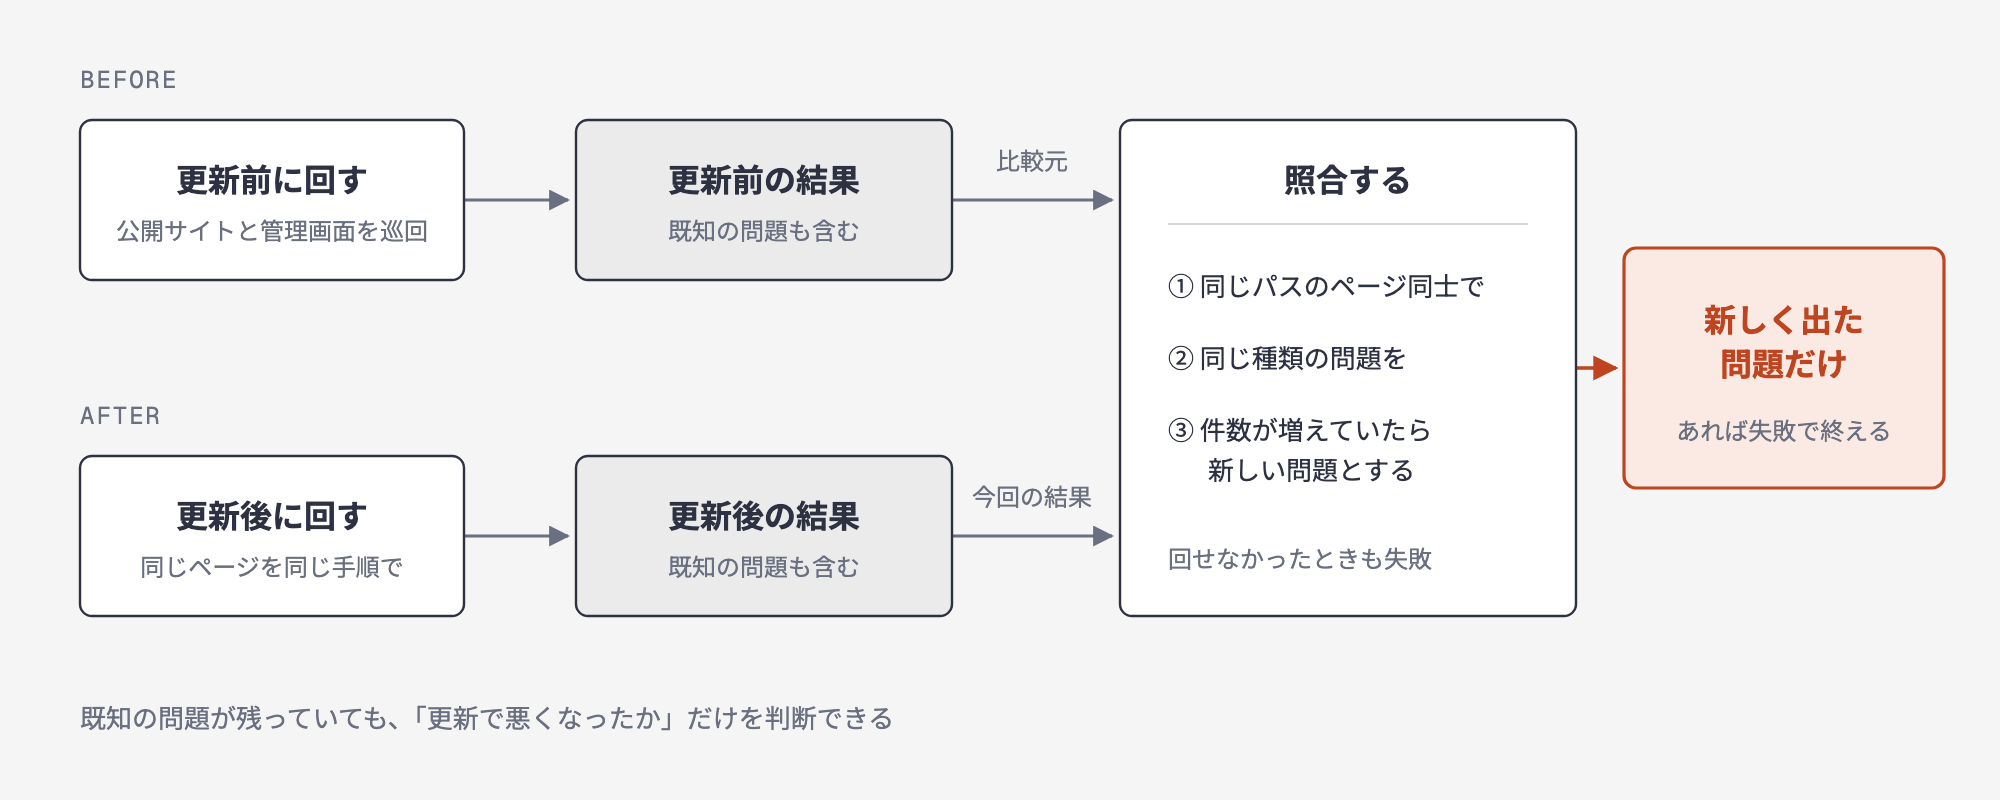
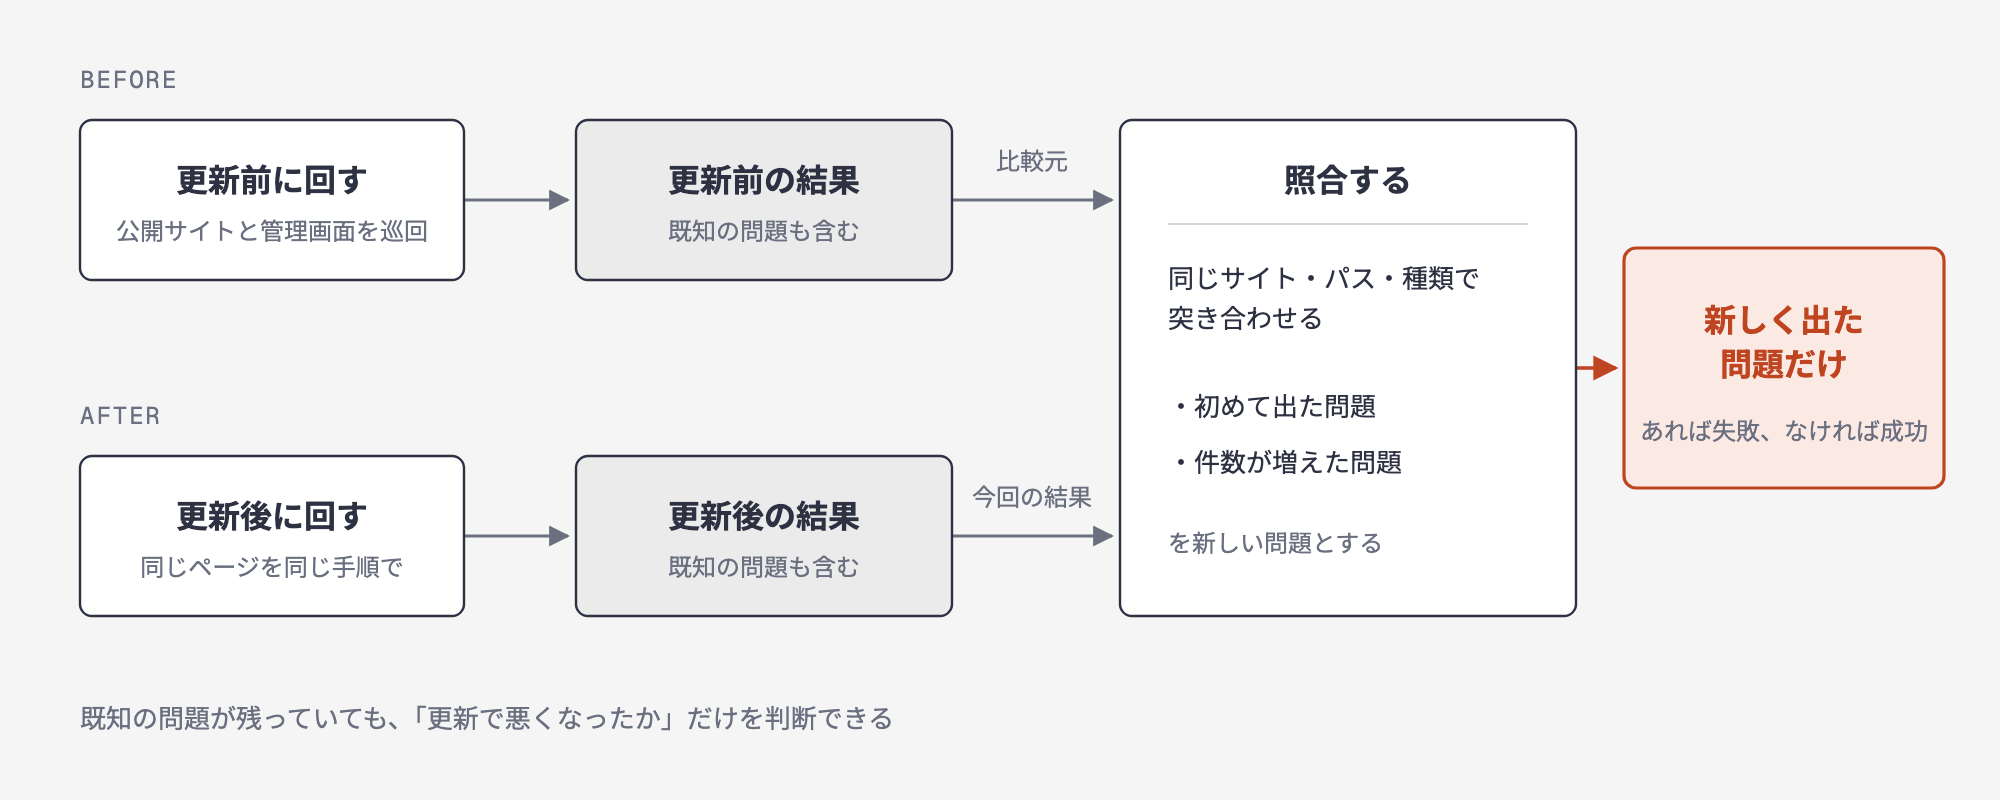
docs(note): apply review loop 1 to PRONI smoke draft

Changed region(s): [[0.589, 0.3125, 0.744, 0.625], [0.589, 0.6562, 0.713, 0.7188], [0.806, 0.5, 0.961, 0.5625]]

diff --git a/articles_note/new/PRONI-dependency-smoke-compare.md b/articles_note/new/PRONI-dependency-smoke-compare.md
@@ -4,7 +4,7 @@
 
 PRONI（プロニ）株式会社のプロダクト開発部で、開発プロセスづくりに取り組んでいる小峯将威（[@mine\_take](https://x.com/mine_take)）です。
 
-先日、私たちのプロダクトで、フロントエンドのビルドツールを大きく更新しました。管理画面と公開サイト4つの Vite を 5 から 8 へ、公開サイトの Vitest を 3 から 4 へ上げる更新です。
+先日、私たちのプロダクトで、フロントエンドのビルドツールを大きく更新しました。管理画面と公開サイト4つの Vite を 5 から 8 へ、公開サイトと共通コンポーネントの Vitest を 3 から 4 へ上げる更新です。
 
 型チェックも lint も単体テストも、本番ビルドも通りました。それでも、管理画面にはブラウザで動かして初めて分かる不具合が残っていました。見つけたのは、更新前の結果と比べて「新しく出た問題だけ」を拾うスモーク E2E です。
 
@@ -20,29 +20,29 @@ PRONI（プロニ）株式会社のプロダクト開発部で、開発プロセ
 
 ## 更新前の結果を、比較元にする
 
-作ったスモーク E2E は、公開サイト4つと管理画面を実際のブラウザで巡回します。ページを開き、コンソールのエラーやハイドレーションの警告、横はみ出しなどを記録します。管理画面では一覧と編集画面を開き、フォームを値を変えずに送信して、保存の往復とトーストの表示まで確かめます。
+作ったスモーク E2E は、公開サイト4つと管理画面を実際のブラウザで巡回します。ページを開き、コンソールのエラーやハイドレーションの警告、横はみ出しなどを記録します。管理画面では一覧と編集画面を開き、フォームを値を変えずに送信して、送信の応答と、エラー画面が出ずにトーストが表示されるかまで確かめます。
 
-記録するのは、ページのパスごとに、どの種類の問題が何件出たかです。たとえば「記事ページで、ハイドレーションの警告が 1 件」のような形です。
+記録するのは、サイトとページのパスごとに、どの種類の問題が何件出たかです。たとえば「記事ページで、ハイドレーションの警告が 1 件」のような形です。照合では、サイト・パス・問題の種類（のちに画面幅も）が同じものを同じ問題として扱います。
 
-結果はファイルに残します。更新の前に一度回して、その結果を比較元にします。更新の後にもう一度回し、比較元と照らし合わせて、**更新前には無かった問題だけ**を一覧にします。新しい問題があれば失敗、無ければ成功で終わります。
+結果はファイルに残します。更新の前に一度回して、その結果を比較元にします。更新の後にもう一度回し、比較元と照らし合わせて、**更新前には無かった問題と、同じ種類で件数が増えた問題だけ**を一覧にします。新しい問題があれば失敗、無ければ成功で終わります。
 
-![更新前と更新後にスモークを回し、同じパス・同じ種類で照合して、件数が増えた問題だけを新しい問題とする流れ](../assets/PRONI-dependency-smoke-compare-flow.png)
+![更新前と更新後にスモークを回し、同じパス・同じ種類で照合して、初めて出た問題と件数が増えた問題を新しい問題とする流れ](../assets/PRONI-dependency-smoke-compare-flow.png)
 
 依存の更新では、型チェック、lint、テスト、本番ビルド、Docker イメージのビルド、そしてこのスモークを、ひとつのスクリプトで順に回すようにしました。
 
-このスモークは、普段の開発で使っている AI エージェント（Claude Code）と一緒に作りました。巡回するページや判定の条件を決めるのは人で、スクリプトに起こし、レビューの指摘を受けて直していく作業は AI と分担しています。
+このスモークは、巡回するページと判定の条件を人が決め、スクリプト化と修正を AI エージェント（Claude Code）と分担して作りました。
 
 ## テストが通っても、保存すると壊れた
 
 更新したブランチでスモークを回し、比較元と照らしたところ、管理画面で新しい問題が見つかりました。フォームを保存すると、トーストが出るはずのところで `Application Error` になっていたのです。
 
-原因は、アイコンの読み込み方でした。CommonJS 形式で配布されているパッケージのアイコンを、default import で読み込んでいました。Vite 8 では CommonJS との相互運用の扱いが変わり、受け取った値がコンポーネントではなくオブジェクトになっていました。
+原因は、アイコンの読み込み方でした。CommonJS 形式で配布されているパッケージのアイコンを、default import で読み込んでいました。Vite 8 では CommonJS との相互運用で default import の扱いがそろえられ、受け取った値がコンポーネントではなく、default の下にコンポーネントが入ったオブジェクトになっていました。
 
 この不具合は、型チェックでも lint でも見つかりません。単体テストも通ります。画面でトーストを表示しようとした瞬間に初めて壊れます。
 
-修正は、名前付きの import に書き換えるだけでした。あわせて、そのパッケージからの同じ読み込み方を lint で禁止し、同じ書き方が入らないようにしました。
+修正は、名前付きの import に書き換えるだけでした。あわせて、そのパッケージのサブパスからの import を lint で禁止し、同じ書き方が入らないようにしました。修正後に回し直すと、巡回した 25 項目はすべて通り、更新前と比べて新しく出た問題は 0 件でした。
 
-保存のような、普段の確認では毎回は押さない操作ほど、更新で壊れても気づきにくいと感じています。スモークに「送信してトーストまで確かめる」を入れていたのは、結果として効きました。
+今回壊れたのも、保存という普段の確認では毎回は押さない操作でした。スモークに「送信してトーストまで確かめる」を入れていたのは、結果として効きました。
 
 ## 判定は、使いながら直した
 
@@ -54,19 +54,19 @@ PRONI（プロニ）株式会社のプロダクト開発部で、開発プロセ
 
 三つ目は、回せなかったときの扱いです。実際に、ローカル環境が応答しないときに、スモークを飛ばしたまま成功で終わっていたことがありました。引数の書き間違いでも、同じことが起こりえます。これを成功として扱うと、確かめていないのに通ったことになります。**回せなかったときも失敗で終える**ようにしました。
 
-判定を直したあとは、比較が本当に効いているかも確かめました。比較元のパスをわざとずらして回すと、既知の問題がすべて新しい問題として報告され、失敗で終わりました。後で画面幅の条件を照合に足したときも、その条件を消した版を作って回し、新しい問題が既知の問題に隠れて見えなくなることを確かめています。
+判定を直したあとは、比較が本当に効いているかも確かめました。比較元のパスをわざとずらして回すと、既知の問題が新しい問題として報告され、失敗で終わりました。
 
-比較の仕組みは、**比べられていないときに静かに成功する**のが一番怖いところです。わざと壊して、失敗することを見ておく。この確認は、判定を変えるたびにやるようにしています。
+比較の仕組みは、**比べられていないときに静かに成功する**のが一番怖いところです。わざと壊して、失敗することを見ておく。判定を変えるときは、この確認を入れるようにしました。
 
 ## 別の更新でも、もう一度使った
 
 このスモークは、ビルドツールの更新のためだけの道具にはしませんでした。依存の更新とは別の PR に分け、手順書と一緒に残しています。更新のほうを取り消すことになっても、道具は残しておけるようにするためです。分けたのは、レビューでの提案がきっかけでした。
 
-その後、サーバー側の PHP のベースイメージを更新したときに、もう一度使いました。今度は本番のリリース前に公開サイトの結果を取り、リリース後にそれと比べて、新しく出た問題が無いことを確かめました。
+その後、サーバー側の PHP のベースイメージを更新したときに、もう一度使いました。今度は本番のリリース前に公開サイトの結果を取り、リリース後にそれと比べて、既知の問題と新しく出た問題を切り分けました。
 
 このとき、ローカル向けの URL を書き換えた一時的なコピーで回していたので、その手順をスモーク本体に取り込みました。いまは、ローカルだけでなく開発環境と本番の公開サイトも、引数ひとつで巡回できます。開発環境と本番では公開ページを読むだけにし、管理画面は回しません。
 
-あわせて、PC と SP の2つの画面幅で回せるようにしました。幅ごとに全ページを回し直し、結果も幅ごとに分けて記録します。すると、開発環境で出ていた横はみ出しは、既定の 1280px の幅でだけ起きていることが分かりました。
+あわせて、PC と SP の2つの画面幅で回せるようにしました。幅ごとに全ページを回し直し、結果も幅ごとに分けて記録します。すると、開発環境で出ていた横はみ出しは、PC の 1440px と SP の 375px では起きず、幅を指定しないとき（ブラウザ既定の 1280px）にだけ起きていることが分かりました。幅を照合の条件に足したときは、その条件を消した版も作って回し、新しい問題が既知の問題に隠れて見えなくなることを確かめました。
 
 ## うまくいっていないこと
 
@@ -88,7 +88,7 @@ PRONI（プロニ）株式会社のプロダクト開発部で、開発プロセ
 
 依存の大きな更新は、テストが通っても安心できません。実行して初めて壊れる箇所があるからです。かといって、既知の問題をすべて直してから更新するのでは、いつまでも始められません。
 
-更新前の結果を比較元にして、新しく出た問題だけを見ます。比較が効いているかは、わざと壊して確かめます。この二つで、既知の問題を抱えたままでも「更新で壊れたか」を判断できるようになりました。
+更新前の結果を比較元にして、新しく出た問題だけを見ます。比較が効いているかは、わざと壊して確かめます。この二つで、既知の問題を抱えたままでも、巡回した範囲では「更新で壊れたか」を判断できるようになりました。
 
 ---
 
